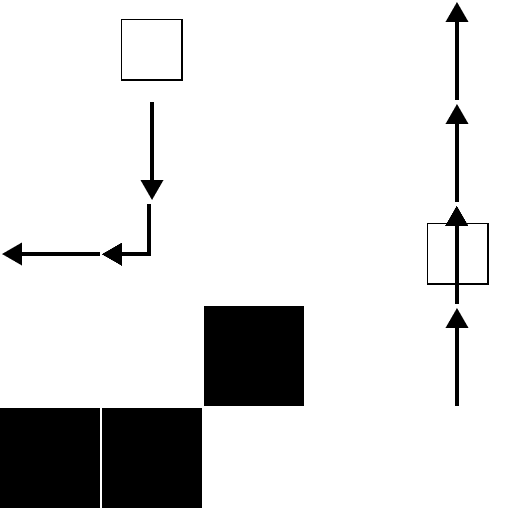
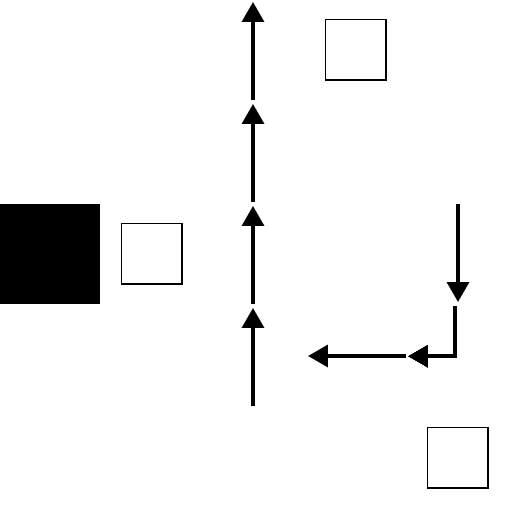
1) Corrected functions initArrows and initReachable in the Evolomino constructor. Cured the problem of wrong arrow and reachable parsing.

diff --git a/src/main/java/evolomino/Evolomino.java b/src/main/java/evolomino/Evolomino.java
@@ -67,22 +67,22 @@ public class Evolomino {
         reachableCells = new ArrayList<ArrayList<Integer>>(0);
 
         for (int a = 0; a < arrows.size(); ++a) {
+            if (a == 1) {
+                a = 1;
+            }
             reachableCells.addLast(new ArrayList<Integer>());
 
             boolean[] visited = new boolean[totalCells];
             int currentCell = -1;
-            for (int c = 0; c < totalCells; ++c) visited[c] = false;
 
-            // beginning of an BFS: first cell
-            currentCell = arrows.get(a).getFirst();
-            reachableCells.get(a).add(currentCell);
-            visited[currentCell] = true;
+            // beginning of an BFS: let's add all arrow's cells into queue;
+            for (int arrowCell: arrows.get(a)) {
+                reachableCells.get(a).add(arrowCell);
+                visited[arrowCell] = true;
+            }
 
             for (int i = 0; i < reachableCells.get(a).size(); ++i) {
                 currentCell = reachableCells.get(a).get(i);
-
-                if (currentCell + 1 == 12)
-                    currentCell = 11;
 
                 for (int neighbourCellNum : getNeighbours(currentCell)) {
                     if  (neighbourCellNum == -1) continue;
@@ -270,6 +270,8 @@ public class Evolomino {
                         area[nextCellNum] == FILLED
         )
             return cellNum;
+
+        if (getPrevious(nextCellNum) != cellNum) return cellNum;
 
         return nextCellNum;
     }

diff --git a/src/main/java/com/example/Main.java b/src/main/java/com/example/Main.java
@@ -9,10 +9,23 @@ import java.util.ArrayList;
 
 public class Main {
     public static void main(String[] args) {
-        generateNSamples(5, 5, 10);
+        generateNSamples(5, 5, 1, true);
     }
 
-    static void generateNSamples(int height, int width, int n) {
+    static void checkExactSample() {
+        Sample s = new Sample("generatedSamples/5x5/sample1/raw.txt");
+        s.name = "id" + -1956855797;
+
+        Evolomino evo = new Evolomino(s);
+        showArrowsNReachable(evo);
+        EvolominoModel.solve(evo, 0, s.name, s);
+
+//        generateNSamples(5, 5, 1, true);
+
+        // tested sample id's: -1956855797
+    }
+
+    static void generateNSamples(int height, int width, int n, boolean override) {
         File sizesDir = new File(String.format("generatedSamples/%dx%d", height, width));
         if (!sizesDir.exists()) {
             sizesDir.mkdir();
@@ -23,7 +36,7 @@ public class Main {
             File sampleDir = new File(sizesDir.getPath() + String.format("/sample%d", i + 1));
             if (!sampleDir.exists()) {
                 sampleDir.mkdir();
-            } else {
+            } else if (!override) {
                 continue;
             }
 

diff --git a/src/main/java/com/example/EvolominoGenerator.java b/src/main/java/com/example/EvolominoGenerator.java
@@ -32,6 +32,7 @@ public class EvolominoGenerator {
 
     // Random
     private static Random rand = new Random();
+    public static int seed = rand.nextInt();
 
     // Memory for last modified cell (carveToUnique)
     private static boolean hereWasSquare = false;
@@ -40,8 +41,8 @@ public class EvolominoGenerator {
             int m,
             int n
     ) {
-        // set up for DEBUG
-//        rand.setSeed(12323); // блок уполз через границу!
+        System.out.println("Puzzle ID: " + seed);
+        rand.setSeed(seed);
 
 
         int tries = 0;
@@ -208,7 +209,6 @@ public class EvolominoGenerator {
                     shiftBlock(newBlock, shift);
 
                     if (isCorrect(newBlock)) {
-                        System.out.println("block to cell " + shuffledArrow.get(newAnchorIndex));
                         addPossibleNeighbourCell(newBlock);
 
                         layBlock(newBlock);

diff --git a/src/main/java/com/example/EvolominoModel.java b/src/main/java/com/example/EvolominoModel.java
@@ -50,8 +50,9 @@ public final class EvolominoModel {
         }
 
         // init parameters
-        exportFilePath = "samples/output/[]_export.txt";
-        exportFilePath = exportFilePath.replace("[]", sampleName);
+        // TODO(Add a way to setup filePath for saving)
+        exportFilePath = "generatedSamples/5x5/sample1/model.txt";
+//        exportFilePath = exportFilePath.replace("[]", sampleName);
 
         // field sizes
         final int rowCount = evo.height;
@@ -89,7 +90,7 @@ public final class EvolominoModel {
                 "There is at least one difference from this solution"
         );
         int filledCellsCounter = 0;
-        for (int i = 0; i < evo.totalCells; ++i) {
+        for (int i = 0; i < baseSol.totalCells; ++i) {
             if (baseSol.field[i] >= CellType.EMPTY_WITHSQUARE.ordinal()) {
                 uniqueness.setCoefficient(
                         x[i],
